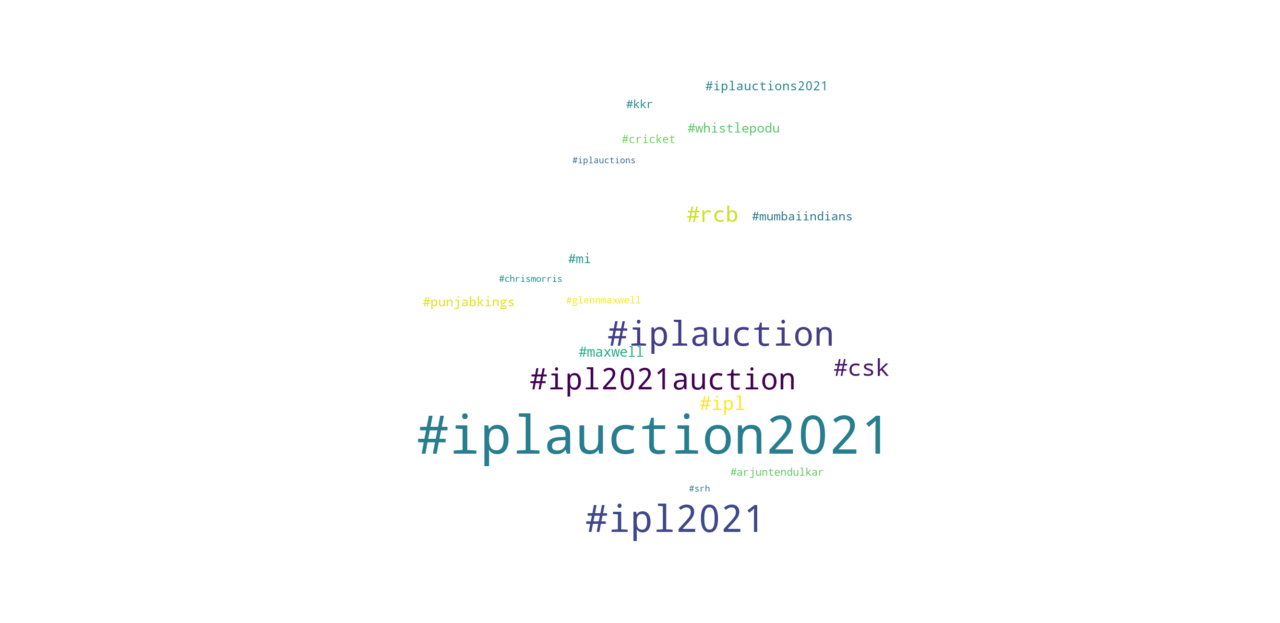
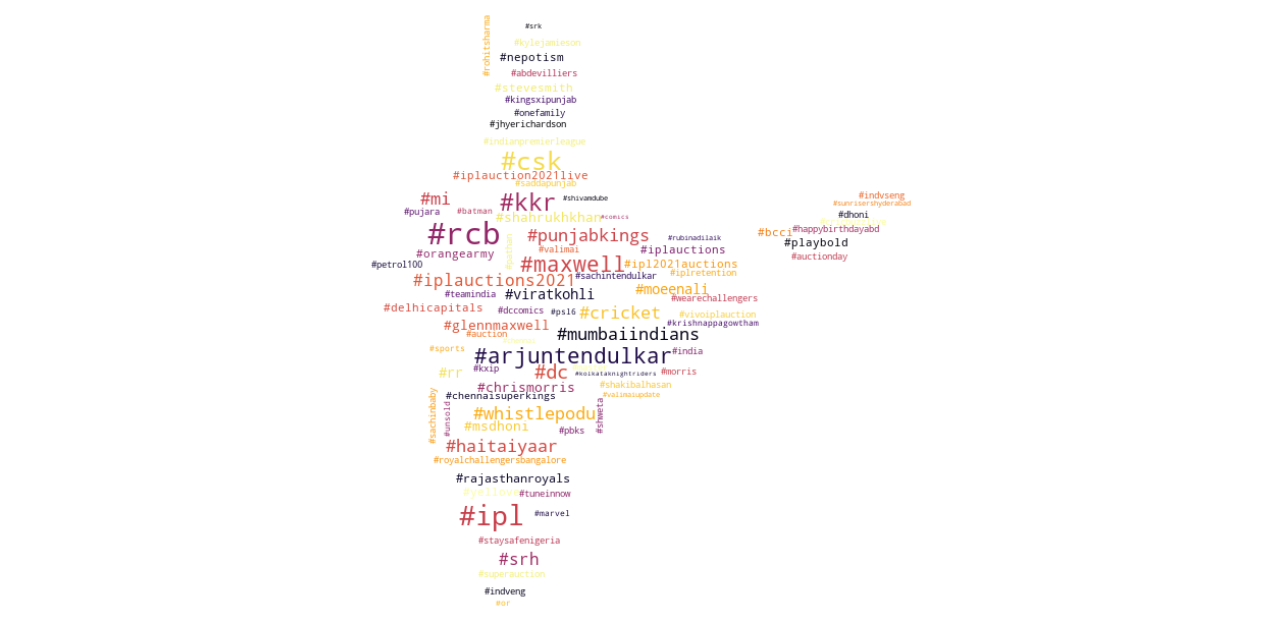
SAved output images

diff --git a/Tweets/analyseTwint.py b/Tweets/analyseTwint.py
@@ -96,9 +96,11 @@ mask = np.array(Image.open('india.jpeg'))
 wordcloud = WordCloud(width=1000,height=1000,background_color="white",colormap="inferno",  max_font_size=30,min_font_size=5,mask=mask,
                random_state=7, max_words=200,contour_color='black').generate_from_frequencies(hashtag_ordered_dict)
 
-
-image = wordcloud.to_image()
-image.show()
+plt.figure(figsize=(16, 12))
+plt.imshow(wordcloud, interpolation="bilinear")
+plt.axis('off')
+plt.tight_layout(pad=0)
+plt.show()
 
 
 #Similarly for mentions:
@@ -148,9 +150,10 @@ for item in mentions_ordered_list[:]:
 mask = np.array(Image.open('india.jpeg'))
 wordcloud = WordCloud(width=1000,height=1000,background_color="white",colormap="plasma", max_words=90, mask=mask,
                max_font_size=80,min_font_size=6, random_state=3, contour_color='black').generate_from_frequencies(mentions_ordered_dict)
-image = wordcloud.to_image()
-image.show()
-
-
+plt.figure(figsize=(16, 12))
+plt.imshow(wordcloud, interpolation="bilinear")
+plt.axis('off')
+plt.tight_layout(pad=0)
+plt.show()
 
 
